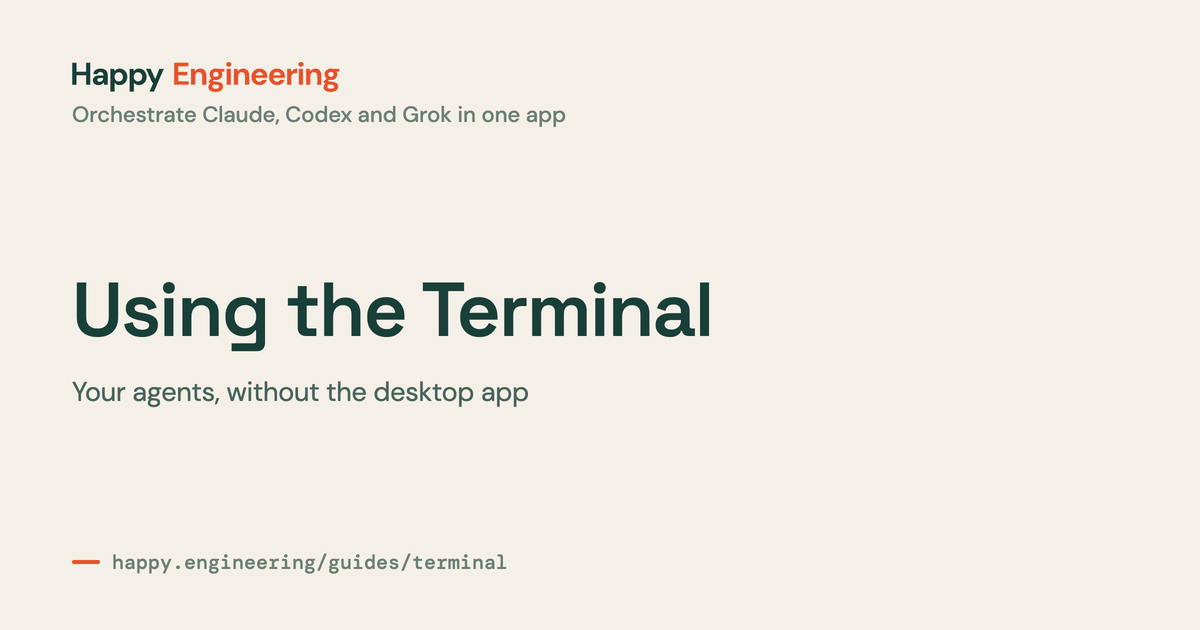
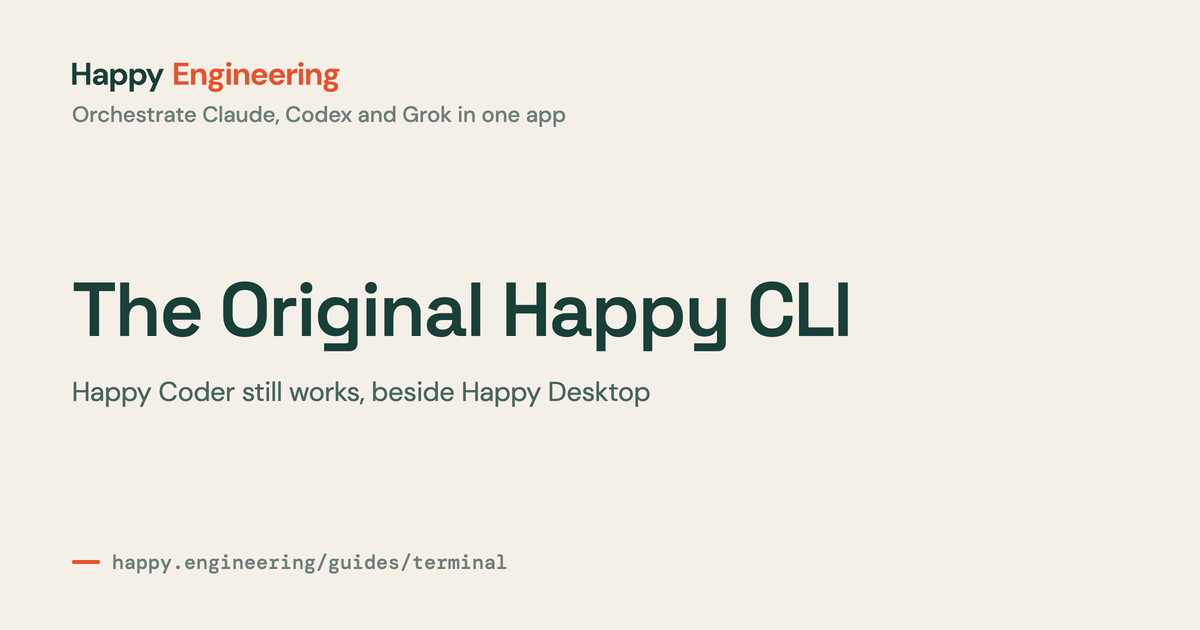
Docs push Desktop and the phone app, and send the original CLI to /docs/
- No desktop page offers the CLI or Happy Terminal as a way to use Happy.
  Desktop no longer installs the CLI, so Quick Start and Mobile Access stop
  saying it does; where the CLI comes up, the page links to /docs/.
- /guides/terminal/ is now The Original Happy CLI: what still works beside
  Desktop, the full reference in /docs/, and a DM to Kirill for CLI users
  missing something.
- Claude Code on Your Phone and the Remote Control comparison are about
  Desktop and the phone app only; the unverifiable push-notification row
  is gone.
- The comparison moves to /claude-code-remote-control/ (no prefix);
  /vs/claude-code-remote-control/ redirects there. The file move and the old
  card's removal landed in the previous commit by mistake.

Changed region(s): [[0.0617, 0.4222, 0.7092, 0.573], [0.0617, 0.6032, 0.555, 0.6635]]

diff --git a/src/documents.ts b/src/documents.ts
@@ -315,10 +315,10 @@ const desktopDocuments: DocumentDefinition[] = [
   {
     path: 'guides/terminal',
     sourcePath: '/content/desktop/guides/terminal.mdx',
-    title: 'Using the Terminal',
-    pageTitle: 'Happy Without the Desktop App: the CLI and Happy Terminal',
-    description: 'Keep Claude Code and Codex in your terminal and reach them from your phone.',
-    cardLine: 'Your agents, without the desktop app',
+    title: 'The Original Happy CLI',
+    pageTitle: 'The Original Happy CLI (Happy Coder) with Happy Desktop — Happy',
+    description: 'The original Happy CLI (happy on npm, formerly happy-coder) still works, and the same phone app reaches it and Happy Desktop. New features ship in Happy Desktop.',
+    cardLine: 'Happy Coder still works, beside Happy Desktop',
     group: 'Guides',
   },
   {
@@ -368,8 +368,9 @@ const desktopDocuments: DocumentDefinition[] = [
     group: 'Comparisons',
   },
   {
-    path: 'vs/claude-code-remote-control',
-    sourcePath: '/content/desktop/vs/claude-code-remote-control.mdx',
+    // First published at /vs/claude-code-remote-control/, which redirects here.
+    path: 'claude-code-remote-control',
+    sourcePath: '/content/desktop/claude-code-remote-control.mdx',
     title: 'Happy vs Remote Control',
     pageTitle: 'Claude Code Remote Control vs Happy — An Open Source Alternative',
     description: 'Claude Code Remote Control vs Happy for steering coding agents from your phone: models, encryption, sessions, setup, and where each one is better.',

diff --git a/src/DocumentPages.test.tsx b/src/DocumentPages.test.tsx
@@ -151,10 +151,10 @@ describe('static document pages', () => {
 
   it('lists the comparison pages in the desktop docs, each linking to its sources', () => {
     const welcome = renderPath('/welcome/')
-    for (const pathname of ['/desktop-app/', '/mobile-app/', '/vs/claude-code-remote-control/']) {
+    for (const pathname of ['/desktop-app/', '/mobile-app/', '/claude-code-remote-control/']) {
       expect(welcome).toContain(`href="${pathname}"`)
     }
-    expect(renderPath('/vs/claude-code-remote-control/')).toContain('href="https://code.claude.com/docs/en/remote-control"')
+    expect(renderPath('/claude-code-remote-control/')).toContain('href="https://code.claude.com/docs/en/remote-control"')
     expect(renderPath('/mobile-app/')).toContain('href="https://code.claude.com/docs/en/remote-control"')
     // Desktop docs links stay top-level; only the original CLI docs resolve under /docs.
     expect(renderPath('/models/')).toContain('href="/guides/configuration/"')
@@ -177,7 +177,7 @@ describe('static document pages', () => {
     expect(screen.queryByRole('link', { name: /^next/i })).toBeNull()
     unmount()
 
-    render(<Router pathname="/vs/claude-code-remote-control/" />)
+    render(<Router pathname="/claude-code-remote-control/" />)
     expect(screen.getByRole('link', { name: /^next/i }).textContent).toMatch(/team sign-in with workos/i)
     expect(screen.getByRole('link', { name: /^previous/i }).textContent).toMatch(/claude code on your phone/i)
   })

diff --git a/src/DesktopApp.test.tsx b/src/DesktopApp.test.tsx
@@ -148,7 +148,7 @@ describe('Happy Desktop landing page', () => {
     unmount()
 
     render(<Router pathname="/desktop/docs/guides/terminal/" />)
-    expect(screen.getByRole('heading', { level: 1 }).textContent).toMatch(/terminal/i)
+    expect(screen.getByRole('heading', { level: 1 }).textContent).toMatch(/original happy cli/i)
   })
 })
 

diff --git a/AGENTS.md b/AGENTS.md
@@ -26,8 +26,15 @@ carrying the homepage's preview tags), and `/desktop/docs/*` and
 `/happy2/docs/*` still serve the desktop docs, each canonical to its top-level
 URL; keep them all resolving. The original Happy CLI docs (`/docs`,
 `content/docs/`) are in maintenance mode: every page opens with the maintenance
-notice, and only a quiet footer link points to them. The Buzz comparison stays
-reachable at `/comparisons/buzz/` but is unlisted (`hidden: true`).
+notice. The CLI is legacy; we push people to Happy Desktop and the phone app.
+Desktop docs never offer the CLI as a way to use Happy and never mention Happy
+Terminal; where the CLI is relevant, they link to `/docs/`, whose notice sends
+readers on. `/guides/terminal/` is the one desktop page about the CLI: what still
+works beside Desktop, a link to `/docs/`, and a DM to Kirill on X for CLI users
+missing something. Desktop doc URLs carry no prefix: the Remote Control
+comparison is `/claude-code-remote-control/` (`/vs/claude-code-remote-control/`
+redirects there). The Buzz comparison stays reachable at `/comparisons/buzz/`
+but is unlisted (`hidden: true`).
 
 The Vision essay (`content/thesis.md`, a plain `.md` whose frontmatter title is
 the h1) is a desktop doc at `/vision/` under Start here, right after How It
